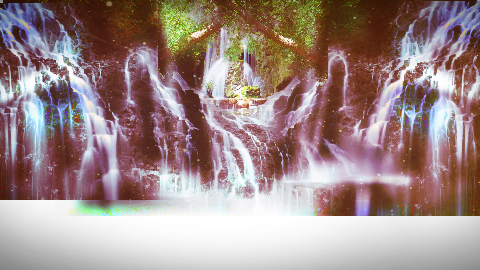
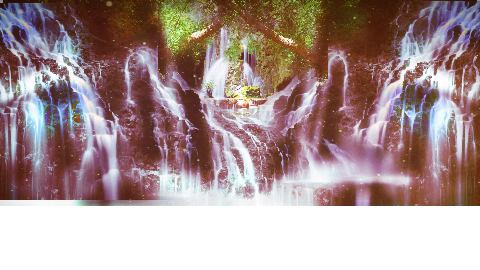
feat(global) : fixes and better stages

Changed region(s): [[0.0, 0.7407, 1.0, 1.0], [0.125, 0.7407, 0.4062, 0.8], [0.4375, 0.7407, 0.4688, 0.8]]

diff --git a/js/game/display/characterSelection/characterSelectionDisplay.js b/js/game/display/characterSelection/characterSelectionDisplay.js
@@ -63,10 +63,10 @@ CharacterSelectionDisplay.update = display => {
                 display.assets['cp' + character1.id + 'active'],
                 0, 0,
                 202, 270,
-                (0 - Math.pow(cursor1.profileFrame, 2) / 2) * display.zoom,
-                (0 - Math.pow(cursor1.profileFrame, 2) / 2) * display.zoom,
-                (202 + Math.pow(cursor1.profileFrame, 2)) * display.zoom,
-                (270 + Math.pow(cursor1.profileFrame, 2)) * display.zoom
+                (0 - cursor1.profileFrame ** 2 / 2) * display.zoom,
+                (0 - cursor1.profileFrame ** 2 / 2) * display.zoom,
+                (202 + cursor1.profileFrame ** 2) * display.zoom,
+                (270 + cursor1.profileFrame ** 2) * display.zoom
             );
             if (cursor1.infoFrame) {
                 display.cx.globalAlpha = cursor1.infoFrame / charSelect.cursorInfoInitFrame;
@@ -88,10 +88,10 @@ CharacterSelectionDisplay.update = display => {
                 display.assets['cp' + character1.id],
                 0, 0,
                 202, 270,
-                (0 - Math.pow(cursor1.profileFrame, 2) / 2) * display.zoom,
-                (0 - Math.pow(cursor1.profileFrame, 2) / 2) * display.zoom,
-                (202 + Math.pow(cursor1.profileFrame, 2)) * display.zoom,
-                (270 + Math.pow(cursor1.profileFrame, 2)) * display.zoom
+                (0 - cursor1.profileFrame ** 2 / 2) * display.zoom,
+                (0 - cursor1.profileFrame ** 2 / 2) * display.zoom,
+                (202 + cursor1.profileFrame ** 2) * display.zoom,
+                (270 + cursor1.profileFrame ** 2) * display.zoom
             );
         }
     }
@@ -110,10 +110,10 @@ CharacterSelectionDisplay.update = display => {
                 display.assets['cp' + character2.id + 'active'],
                 0, 0,
                 202, 270,
-                (278 - Math.pow(cursor2.profileFrame, 2) / 2) * display.zoom,
-                (0 - Math.pow(cursor2.profileFrame, 2) / 2) * display.zoom,
-                (202 + Math.pow(cursor2.profileFrame, 2)) * display.zoom,
-                (270 + Math.pow(cursor2.profileFrame, 2)) * display.zoom
+                (278 - cursor2.profileFrame ** 2 / 2) * display.zoom,
+                (0 - cursor2.profileFrame ** 2 / 2) * display.zoom,
+                (202 + cursor2.profileFrame ** 2) * display.zoom,
+                (270 + cursor2.profileFrame ** 2) * display.zoom
             );
             if (cursor2.infoFrame) {
                 display.cx.globalAlpha = cursor2.infoFrame / charSelect.cursorInfoInitFrame;
@@ -135,10 +135,10 @@ CharacterSelectionDisplay.update = display => {
                 display.assets['cp' + character2.id],
                 0, 0,
                 202, 270,
-                (278 - Math.pow(cursor2.profileFrame, 2) / 2) * display.zoom,
-                (0 - Math.pow(cursor2.profileFrame, 2) / 2) * display.zoom,
-                (202 + Math.pow(cursor2.profileFrame, 2)) * display.zoom,
-                (270 + Math.pow(cursor2.profileFrame, 2)) * display.zoom
+                (278 - cursor2.profileFrame ** 2 / 2) * display.zoom,
+                (0 - cursor2.profileFrame ** 2 / 2) * display.zoom,
+                (202 + cursor2.profileFrame ** 2) * display.zoom,
+                (270 + cursor2.profileFrame ** 2) * display.zoom
             );
         }
     }
@@ -187,8 +187,8 @@ CharacterSelectionDisplay.update = display => {
                 display.assets['cn' + character1.id],
                 0, 0,
                 62, 136,
-                (0 + Math.pow(cursor1.profileFrame, 2) * 1) * display.zoom,
-                (0 - Math.pow(cursor1.profileFrame, 2) * 4) * display.zoom,
+                (0 + cursor1.profileFrame ** 2 * 1) * display.zoom,
+                (0 - cursor1.profileFrame ** 2 * 4) * display.zoom,
                 62 * display.zoom,
                 136 * display.zoom
             );
@@ -198,8 +198,8 @@ CharacterSelectionDisplay.update = display => {
                 display.assets['cn' + character2.id],
                 0, 0,
                 62, 136,
-                (419 + Math.pow(cursor2.profileFrame, 2) * 1) * display.zoom,
-                (134 - Math.pow(cursor2.profileFrame, 2) * 4) * display.zoom,
+                (419 + cursor2.profileFrame ** 2 * 1) * display.zoom,
+                (134 - cursor2.profileFrame ** 2 * 4) * display.zoom,
                 62 * display.zoom,
                 136 * display.zoom
             );
@@ -269,8 +269,8 @@ CharacterSelectionDisplay.update = display => {
                 display.assets['cn' + character1.id],
                 0, 0,
                 62, 136,
-                (0 + Math.pow(cursor1.profileFrame, 2) * 1) * display.zoom,
-                (0 - Math.pow(cursor1.profileFrame, 2) * 4) * display.zoom,
+                (0 + cursor1.profileFrame ** 2 * 1) * display.zoom,
+                (0 - cursor1.profileFrame ** 2 * 4) * display.zoom,
                 62 * display.zoom,
                 136 * display.zoom
             );
@@ -280,8 +280,8 @@ CharacterSelectionDisplay.update = display => {
                 display.assets['cn' + character2.id],
                 0, 0,
                 62, 136,
-                (419 + Math.pow(cursor2.profileFrame, 2) * 1) * display.zoom,
-                (134 - Math.pow(cursor2.profileFrame, 2) * 4) * display.zoom,
+                (419 + cursor2.profileFrame ** 2 * 1) * display.zoom,
+                (134 - cursor2.profileFrame ** 2 * 4) * display.zoom,
                 62 * display.zoom,
                 136 * display.zoom
             );
@@ -292,8 +292,8 @@ CharacterSelectionDisplay.update = display => {
             display.assets.characterSelectInfo2,
             0, cursor1.ready ? 24 : 0,
             72, 24,
-            (147 + Math.pow(cursor1.infoFrame / 2, 2) * 4) * display.zoom,
-            (231 + Math.pow(cursor1.infoFrame / 2, 2) * 1) * display.zoom,
+            (147 + (cursor1.infoFrame / 2) ** 2 * 4) * display.zoom,
+            (231 + (cursor1.infoFrame / 2) ** 2 * 1) * display.zoom,
             72 * display.zoom,
             24 * display.zoom
         );
@@ -301,8 +301,8 @@ CharacterSelectionDisplay.update = display => {
             display.assets.characterSelectInfo2,
             0, cursor2.ready ? 24 : 0,
             72, 24,
-            ((cursor2.ready ? 295 : 261) - Math.pow(cursor2.infoFrame / 2, 2) * 4) * display.zoom,
-            ((cursor2.ready ? 23 : 15) - Math.pow(cursor2.infoFrame / 2, 2) * 1) * display.zoom,
+            ((cursor2.ready ? 295 : 261) - (cursor2.infoFrame / 2) ** 2 * 4) * display.zoom,
+            ((cursor2.ready ? 23 : 15) - (cursor2.infoFrame / 2) ** 2 * 1) * display.zoom,
             72 * display.zoom,
             24 * display.zoom
         );
@@ -311,8 +311,8 @@ CharacterSelectionDisplay.update = display => {
             display.assets.characterSelectInfo3,
             0, 0,
             58, 26,
-            (142 + Math.pow(charSelect.initInfo3Frame / 2, 2) * 4) * display.zoom,
-            (244 + Math.pow(charSelect.initInfo3Frame / 2, 2) * 1) * display.zoom,
+            (142 + (charSelect.initInfo3Frame / 2) ** 2 * 4) * display.zoom,
+            (244 + (charSelect.initInfo3Frame / 2) ** 2 * 1) * display.zoom,
             58 * display.zoom,
             26 * display.zoom
         );
@@ -321,8 +321,8 @@ CharacterSelectionDisplay.update = display => {
             display.assets.characterSelectInfo3,
             0, 26 * info3multiplier,
             58, 26,
-            (280 - Math.pow(charSelect.initInfo3Frame / 2, 2) * 4) * display.zoom,
-            (1 - Math.pow(charSelect.initInfo3Frame / 2, 2) * 1) * display.zoom,
+            (280 - (charSelect.initInfo3Frame / 2) ** 2 * 4) * display.zoom,
+            (1 - (charSelect.initInfo3Frame / 2) ** 2 * 1) * display.zoom,
             58 * display.zoom,
             26 * display.zoom
         );
@@ -385,7 +385,7 @@ CharacterSelectionDisplay.update = display => {
         });
     }
 
-    if (![cursor1, cursor2].find(cursor => !cursor.ready || cursor.infoFrame)) StageSelectionDisplay.update(display);
+    if (![cursor1, cursor2].find(cursor => !cursor.ready || cursor.infoFrame) && charSelect.mode !== 'Training') StageSelectionDisplay.update(display);
 
     // Transition
     if (charSelect.endAnimFrame) display.fadeEffect('#000', charSelect.endAnimFrame, charSelect.endAnimEndFrame);

diff --git a/js/game/display/fight/fightDisplay.js b/js/game/display/fight/fightDisplay.js
@@ -24,21 +24,7 @@ FightDisplay.update = display => {
     display.cx.translate(-view.xOffset * display.zoom, 0);
 
     // Background
-    if (fight.stage.id === 2) {
-        FightDisplay.perspectiveLayer(display, fight, view);
-    } else {
-        display.cx.drawImage(
-            display.assets['s' + fight.stage.id + 'l0'],
-            0, 0, fight.stage.size.x, fight.stage.size.y + 16,
-            0, 0, fight.stage.size.x * display.zoom, (fight.stage.size.y + 16) * display.zoom
-        );
-        display.cx.drawImage(
-            display.assets['s' + fight.stage.id + 'l1'],
-            0, 0, fight.stage.size.x, fight.stage.size.y + 16,
-            0, 0, fight.stage.size.x * display.zoom, (fight.stage.size.y + 16) * display.zoom
-        );
-    }
-
+    FightDisplay.perspectiveLayer(display, fight, view);
 
     if (display.debugMode) {
 
@@ -76,7 +62,7 @@ FightDisplay.update = display => {
     if (display.assets['s' + fight.stage.id + 'l3']) {
         display.cx.drawImage(
             display.assets['s' + fight.stage.id + 'l3'],
-            0, 0, fight.stage.size.x, fight.stage.size.y + 16,
+            -view.xOffset / 2, 0, fight.stage.size.x, fight.stage.size.y + 16,
             0, 0, fight.stage.size.x * display.zoom, (fight.stage.size.y + 16) * display.zoom
         );
     }
@@ -89,11 +75,14 @@ FightDisplay.update = display => {
 
 FightDisplay.perspectiveLayer = (display, fight, view) => {
 
-    display.cx.drawImage(
-        display.assets['s' + fight.stage.id + 'l0'],
-        -view.xOffset / 2, 0, fight.stage.size.x, fight.stage.size.y + 16,
-        0, 0, fight.stage.size.x * display.zoom, (fight.stage.size.y + 16) * display.zoom
-    );
+
+    if (display.assets['s' + fight.stage.id + 'l0']) {
+        display.cx.drawImage(
+            display.assets['s' + fight.stage.id + 'l0'],
+            -view.xOffset, 0, fight.stage.size.x, fight.stage.size.y + 16,
+            0, 0, fight.stage.size.x * display.zoom, (fight.stage.size.y + 16) * display.zoom
+        );
+    }
 
     var img = {
         x: view.xOffset,
@@ -128,7 +117,7 @@ FightDisplay.perspectiveLayer = (display, fight, view) => {
     for (var row = 0; row < img.w; row++) {
         var yTop = m1 * row + b1;
         var yBottom = m2 * row + b2;
-        display.cx.drawImage(display.assets['s2l1'],
+        display.cx.drawImage(display.assets['s' + fight.stage.id + 'floor'],
             row, img.x / 2, 1, img.h,
             row * display.zoom, yTop * display.zoom,
             1 * display.zoom, (yBottom - yTop) * display.zoom
@@ -137,4 +126,12 @@ FightDisplay.perspectiveLayer = (display, fight, view) => {
 
     display.cx.rotate(90 * Math.PI / 180);
     display.cx.translate(0, -270 * display.zoom);
+    
+    if (display.assets['s' + fight.stage.id + 'l1']) {
+        display.cx.drawImage(
+            display.assets['s' + fight.stage.id + 'l1'],
+            -view.xOffset / 2, 0, fight.stage.size.x, fight.stage.size.y + 16,
+            0, 0, fight.stage.size.x * display.zoom, (fight.stage.size.y + 16) * display.zoom
+        );
+    }
 }

diff --git a/js/game/display/characterSelection/stageSelectionDisplay.js b/js/game/display/characterSelection/stageSelectionDisplay.js
@@ -12,7 +12,7 @@ StageSelectionDisplay.update = display => {
                 0, 0,
                 480, 54,
                 0,
-                ((i + 2) * 54 - Math.pow(charSelect.stageFrame, 2)) * display.zoom,
+                ((i + 2) * 54 - charSelect.stageFrame ** 2) * display.zoom,
                 480 * display.zoom, 54 * display.zoom
             );
         }
@@ -24,10 +24,10 @@ StageSelectionDisplay.update = display => {
             display.assets.stageSelect,
             0, 0,
             480, 270,
-            (0 - Math.pow(charSelect.stageFrame, 2)) * display.zoom,
-            (0 - Math.pow(charSelect.stageFrame, 2)) * display.zoom,
-            (480 + Math.pow(charSelect.stageFrame, 2) * 2) * display.zoom,
-            (270 + Math.pow(charSelect.stageFrame, 2) * 2) * display.zoom
+            (0 - charSelect.stageFrame ** 2) * display.zoom,
+            (0 - charSelect.stageFrame ** 2) * display.zoom,
+            (480 + charSelect.stageFrame ** 2 * 2) * display.zoom,
+            (270 + charSelect.stageFrame ** 2 * 2) * display.zoom
         );
 
         display.cx.drawImage(
@@ -35,7 +35,7 @@ StageSelectionDisplay.update = display => {
             0, 0,
             480, 54,
             0,
-            (2 * 54 - Math.pow(charSelect.stageFrame, 2)) * display.zoom,
+            (2 * 54 - charSelect.stageFrame ** 2) * display.zoom,
             480 * display.zoom, 54 * display.zoom
         );
 
@@ -49,7 +49,7 @@ StageSelectionDisplay.update = display => {
                 0, 0,
                 480, 54,
                 0,
-                ((i + 2) * 54 + Math.pow(charSelect.selectStageFrame, 2) * (charSelect.selectStageFrame < 0 ? -1 : 1)) * display.zoom,
+                ((i + 2) * 54 + charSelect.selectStageFrame ** 2 * (charSelect.selectStageFrame < 0 ? -1 : 1)) * display.zoom,
                 480 * display.zoom, 54 * display.zoom
             );
         }
@@ -64,7 +64,7 @@ StageSelectionDisplay.update = display => {
             0, 0,
             480, 54,
             0,
-            (2 * 54 + Math.pow(charSelect.selectStageFrame, 2) * (charSelect.selectStageFrame < 0 ? -1 : 1)) * display.zoom,
+            (2 * 54 + charSelect.selectStageFrame ** 2 * (charSelect.selectStageFrame < 0 ? -1 : 1)) * display.zoom,
             480 * display.zoom, 54 * display.zoom
         );
 

diff --git a/js/game/logic/activity/characterSelection.js b/js/game/logic/activity/characterSelection.js
@@ -40,7 +40,7 @@ class CharacterSelection extends Activity {
         });
 
         this.stageCursor = 0;
-        this.stageReady = false;
+        this.stageReady = this.mode === 'Training';
         
         this.stageInitFrame = 6;
         this.stageFrame = this.stageInitFrame;
@@ -48,7 +48,7 @@ class CharacterSelection extends Activity {
         this.selectStageInitFrame = 6;
         this.selectStageFrame = 0;
 
-        this.selectCharacter = pos => this.characters[pos.x + pos.y * 3] ? new this.characters[pos.x + pos.y * 3]() : null;
+        this.selectCharacter = pos => this.characters[pos.x + pos.y * 3] ? new (this.characters[pos.x + pos.y * 3])() : null;
 
         this.selectStage = (game, cursor) => {
             var id = cursor.player.id;
@@ -138,7 +138,12 @@ class CharacterSelection extends Activity {
                 } else {
                     if (this.stageReady) {
                         this.cursors.forEach(cursor => cursor.player.character = this.selectCharacter(cursor.pos));
-                        this.nextActivity = new Fight(this.cursors.map(cursor => cursor.player), new this.stages[this.stageCursor](), this.mode === 'Training', true);
+                        this.nextActivity = new Fight(
+                            this.cursors.map(cursor => cursor.player),
+                            new (this.mode === 'Training' ? TrainingStage : this.stages[this.stageCursor])(),
+                            this.mode === 'Training',
+                            true
+                        );
                     } else {
                         if (this.selectStageFrame > 0) this.selectStageFrame--;
                         if (this.selectStageFrame < 0) this.selectStageFrame++;

diff --git a/js/game/display/assets.js b/js/game/display/assets.js
@@ -80,6 +80,8 @@ class Assets {
         this.characterSelectGamepad.src = 'img/characterSelect/gamepad.png';
 
         // Stage
+        this.s0floor = document.createElement('img');
+        this.s0floor.src = 'img/stage/s0floor.png';
         this.s0l0 = document.createElement('img');
         this.s0l0.src = 'img/stage/s0l0.png';
         this.s0l1 = document.createElement('img');
@@ -91,6 +93,8 @@ class Assets {
         this.s0preview = document.createElement('img');
         this.s0preview.src = 'img/stage/s0preview.png';
 
+        this.s1floor = document.createElement('img');
+        this.s1floor.src = 'img/stage/s1floor.png';
         this.s1l0 = document.createElement('img');
         this.s1l0.src = 'img/stage/s1l0.png';
         this.s1l1 = document.createElement('img');
@@ -100,8 +104,8 @@ class Assets {
         this.s1preview = document.createElement('img');
         this.s1preview.src = 'img/stage/s1preview.png';
 
-        this.s2l0 = document.createElement('img');
-        this.s2l0.src = 'img/stage/s2l0.png';
+        this.s2floor = document.createElement('img');
+        this.s2floor.src = 'img/stage/s2floor.png';
         this.s2l1 = document.createElement('img');
         this.s2l1.src = 'img/stage/s2l1.png';
         this.s2preview = document.createElement('img');

diff --git a/js/game/logic/game.js b/js/game/logic/game.js
@@ -14,7 +14,7 @@ class Game {
         }
 
         this.stages = [
-            TrainingStage,
+            Stage,
             ChildStage,
             ChildStage,
             Stage,
@@ -92,7 +92,7 @@ class Game {
 
             this.activity.update(this);
 
-            this.inputList.forEach((input, id) => this.lastInputList.set(id, JSON.parse(JSON.stringify(input))));
+            this.inputList.forEach((input, id) => this.lastInputList.set(id, {...input}));
             this.frame++;
         };
     }

diff --git a/js/game/logic/player.js b/js/game/logic/player.js
@@ -20,7 +20,7 @@ class Player {
         }
 
         this.socdCleaner = inputs => {
-            var cleanedInputs = JSON.parse(JSON.stringify(inputs));
+            var cleanedInputs = {...inputs};
             if (cleanedInputs.left && cleanedInputs.right) {
                 cleanedInputs.left = false;
                 cleanedInputs.right = false;

diff --git a/js/game/logic/stage/stage.js b/js/game/logic/stage/stage.js
@@ -5,7 +5,7 @@ class Stage {
         this.name = 'ParentStage';
         
         this.pos = new Vector2D(0, 0);
-        this.size = new Vector2D(480, 270 - 16);
+        this.size = new Vector2D(960, 270 - 16);
     }
 }
 Stage.id = 0;

diff --git a/js/game/logic/stage/trainingStage.js b/js/game/logic/stage/trainingStage.js
@@ -4,8 +4,6 @@ class TrainingStage extends Stage {
 
         this.id = 2;
         this.name = 'TrainingStage';
-        
-        this.size = new Vector2D(960, 270 - 16);
     }
 }
 TrainingStage.id = 2;
